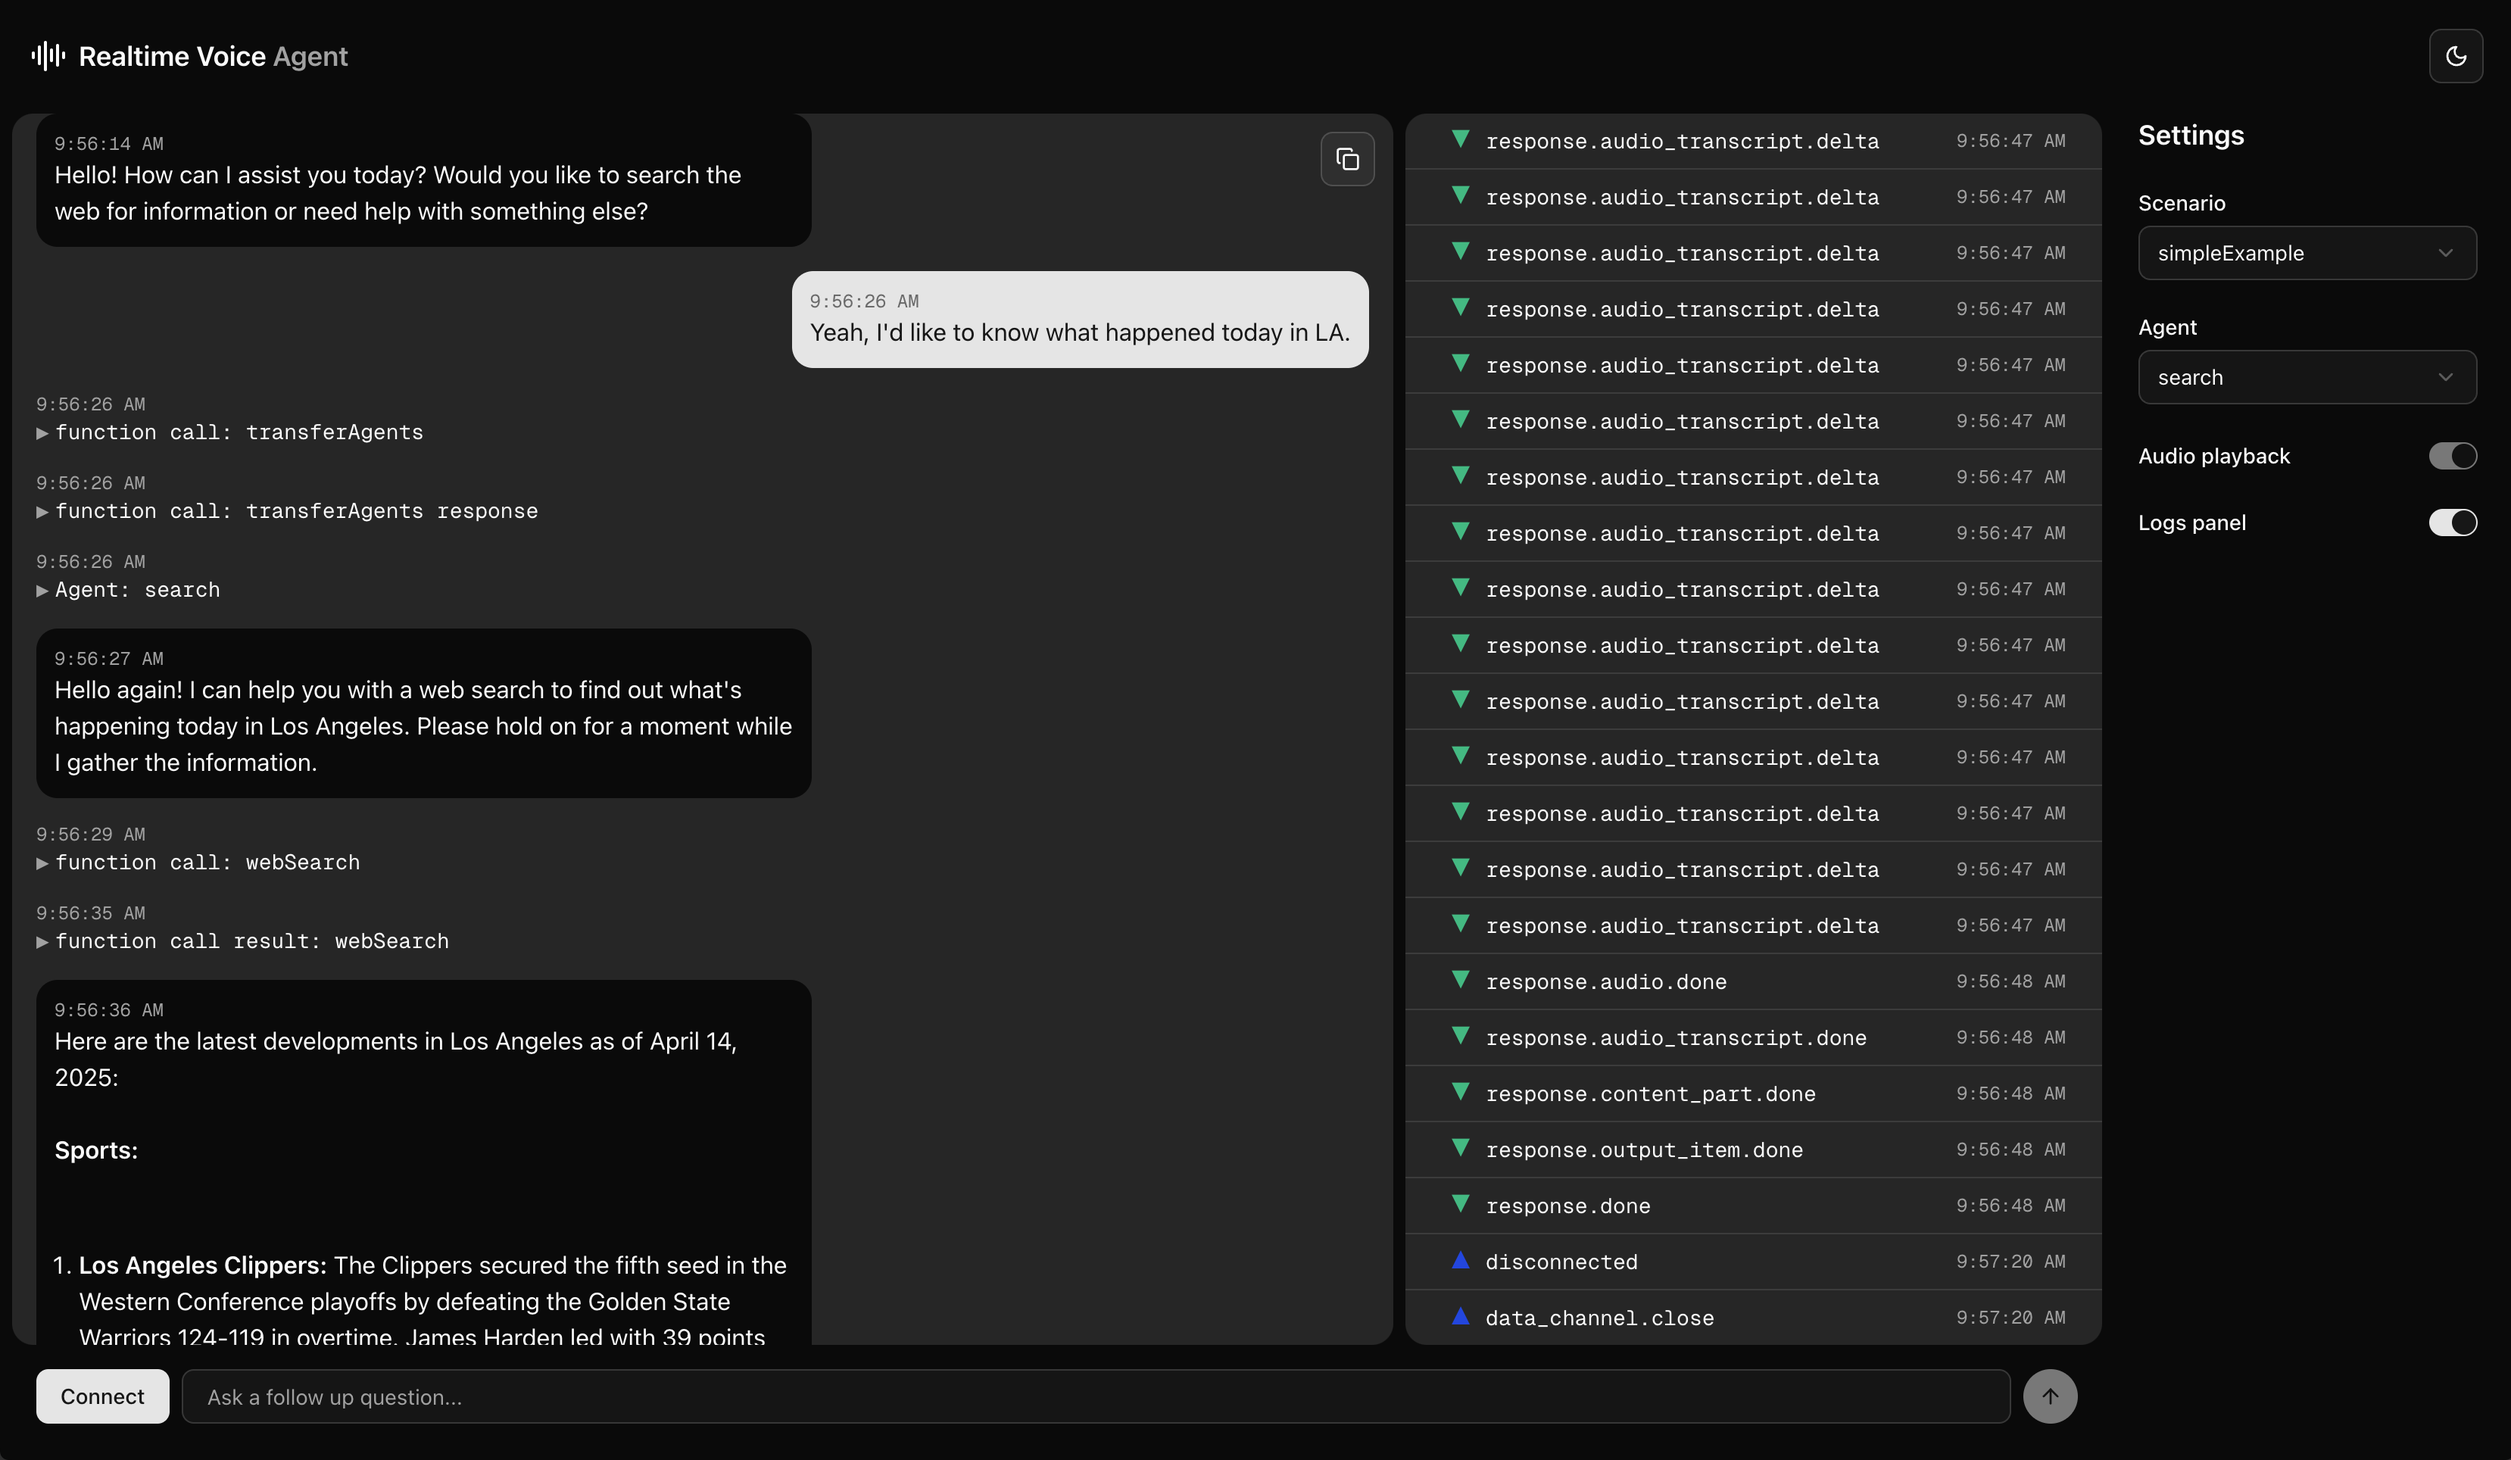
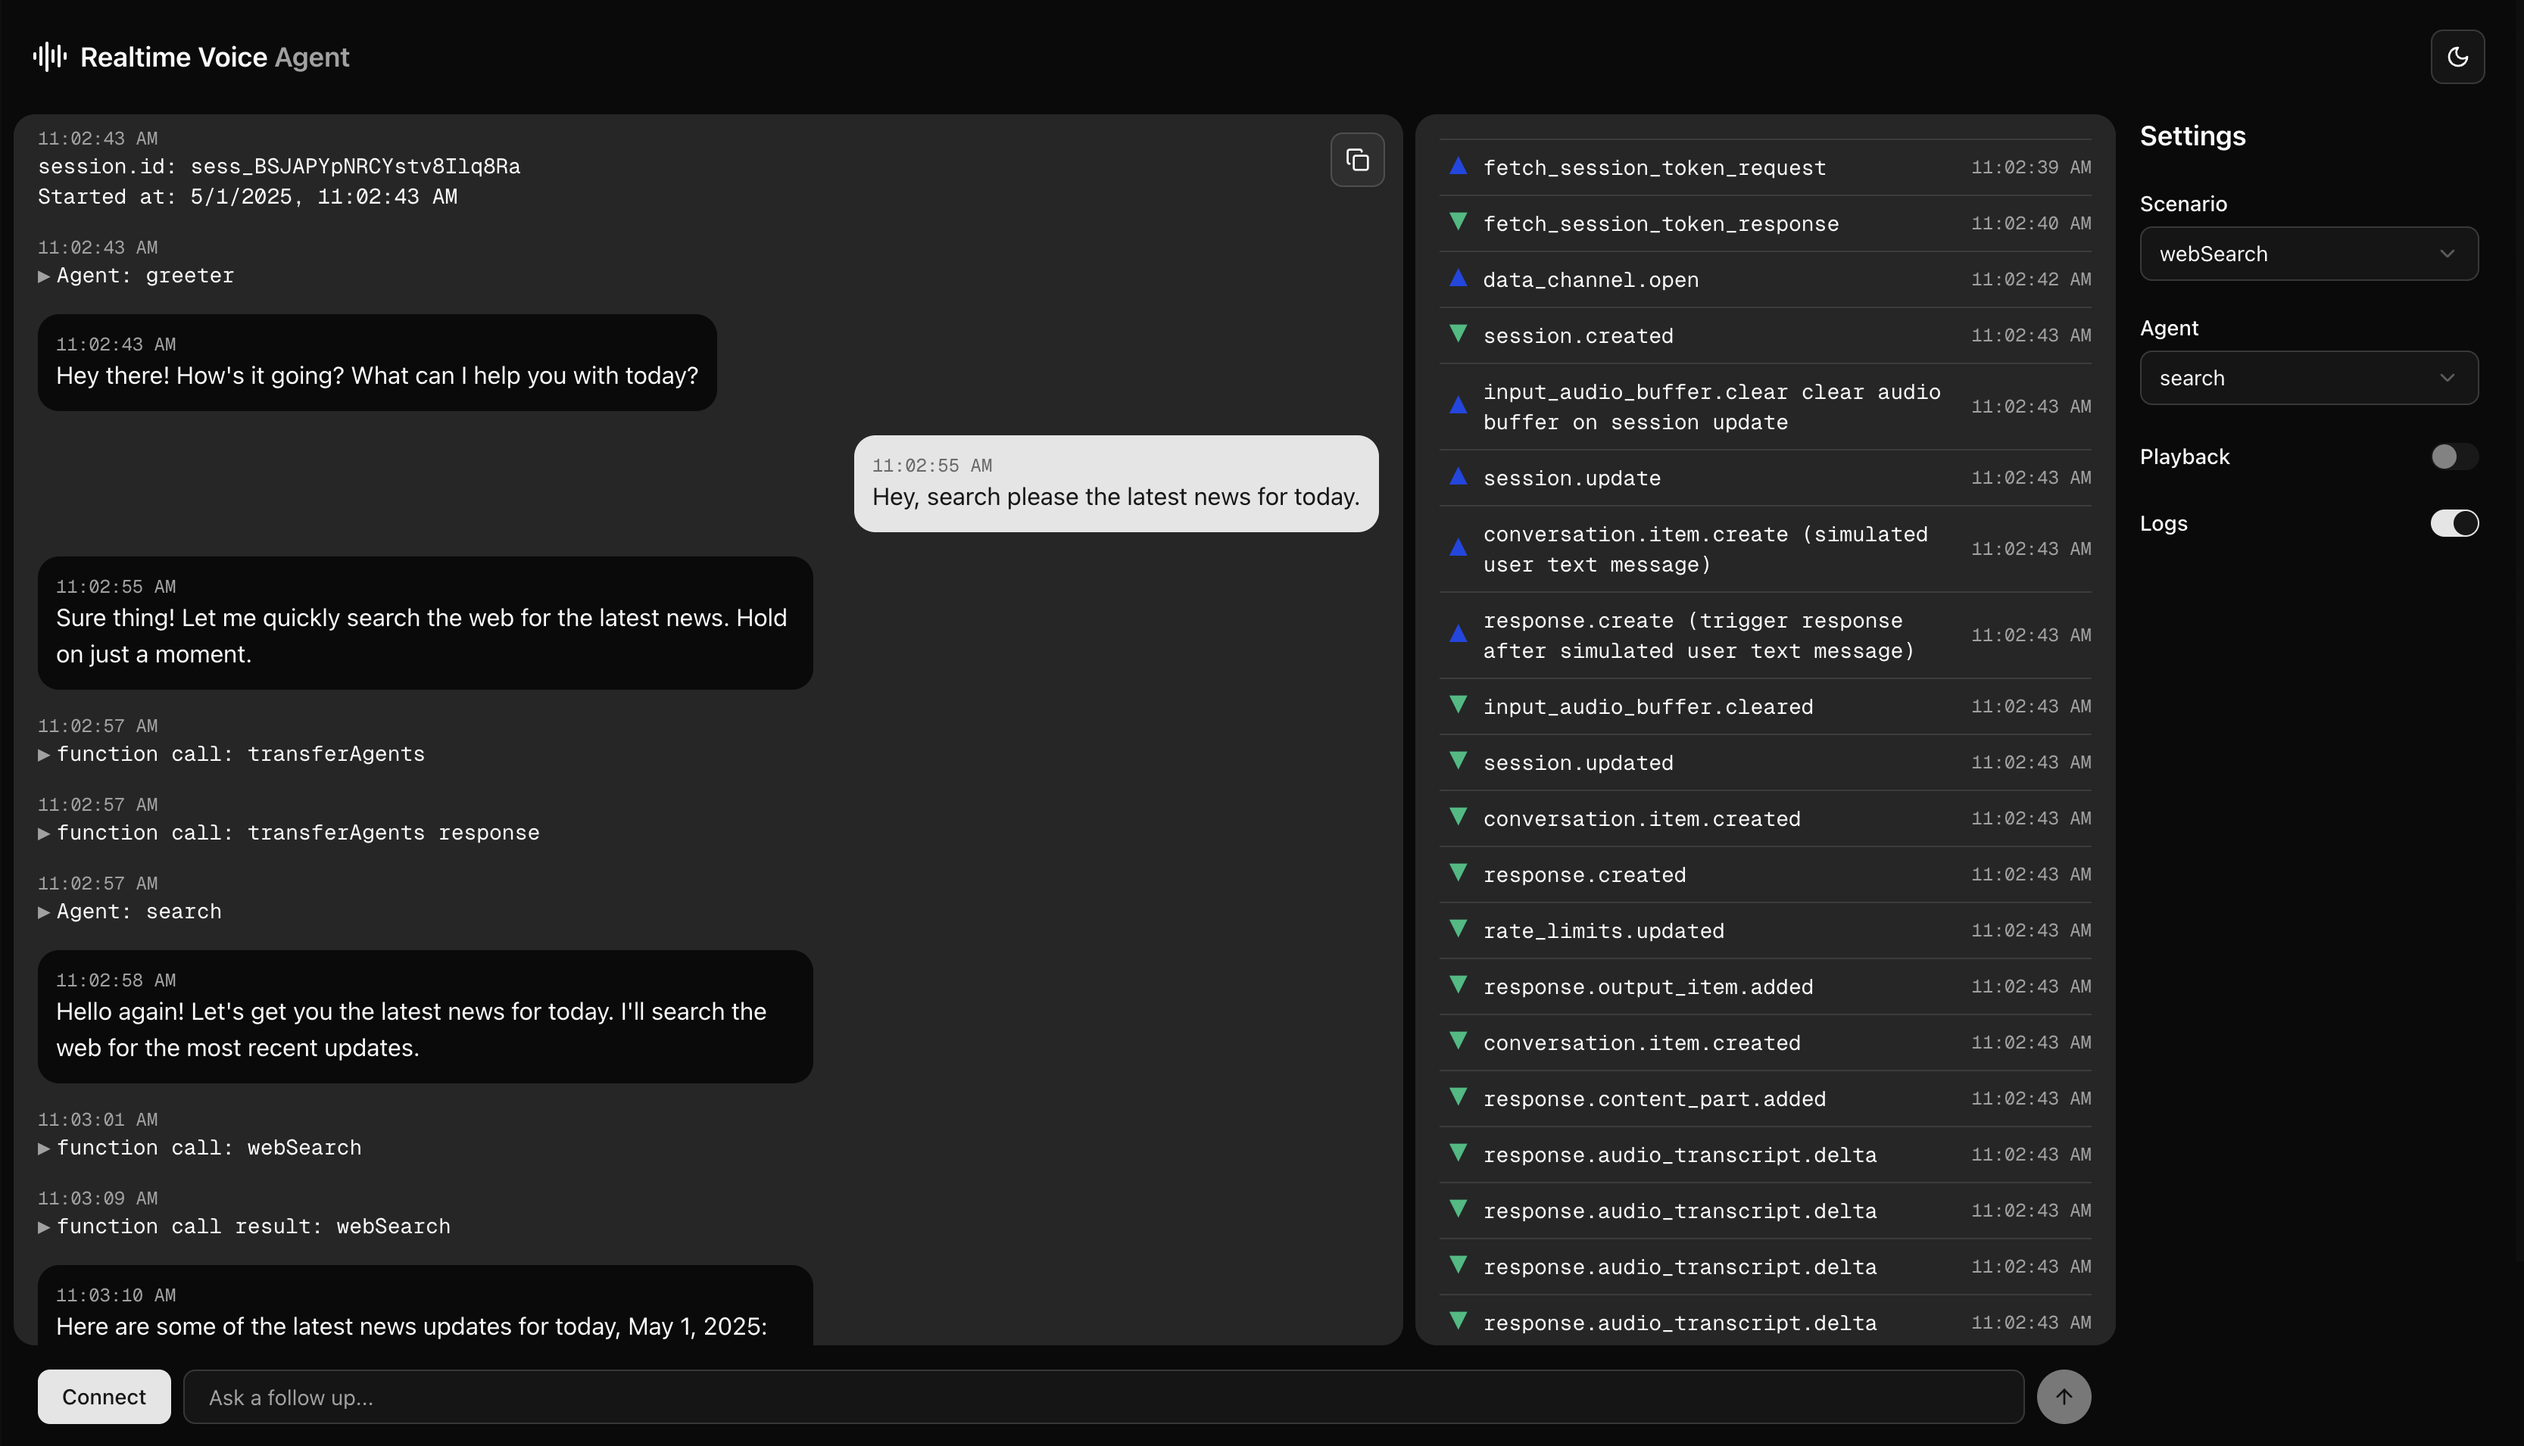
update reame

diff --git a/components/right-sidebar.tsx b/components/right-sidebar.tsx
@@ -68,7 +68,7 @@ const RightSidebar: React.FC<RightSidebarProps> = ({
           htmlFor="audio-playback-sidebar"
           className="flex items-center cursor-pointer text-sm pr-2"
         >
-          Audio playback
+          Playback
         </Label>
         <Switch
           id="audio-playback-sidebar"
@@ -84,7 +84,7 @@ const RightSidebar: React.FC<RightSidebarProps> = ({
           htmlFor="logs-sidebar"
           className="flex items-center cursor-pointer text-sm pr-2"
         >
-          Logs panel
+          Logs
         </Label>
         <Switch
           id="logs-sidebar"

diff --git a/components/agent-configs/index.ts b/components/agent-configs/index.ts
@@ -1,11 +1,11 @@
 import { AllAgentConfigsType } from "@/lib/types";
 
-import simpleExample from "@/components/agent-configs/web-search/index";
+import webSearch from "@/components/agent-configs/web-search/index";
 import customerService from "@/components/agent-configs/customer-service/index";
 
 export const allAgentSets: AllAgentConfigsType = {
-  simpleExample,
+  webSearch,
   customerService,
 };
 
-export const defaultAgentSetKey = "simpleExample";
+export const defaultAgentSetKey = "webSearch";

diff --git a/app/api/og/route.tsx b/app/api/og/route.tsx
@@ -37,7 +37,7 @@ export async function GET() {
               fontSize: 20,
             }}
           >
-            github.com/muradpm
+            github.com/murabcd
           </span>
         </div>
         <div

diff --git a/components/agent-configs/web-search/index.ts b/components/agent-configs/web-search/index.ts
@@ -1,4 +1,4 @@
-import greeter from "./simple-example";
+import greeter from "./greeter";
 import search from "./search";
 import { injectTransferTools } from "@/lib/utils";
 

diff --git a/README.md b/README.md
@@ -7,11 +7,9 @@
   An Open-source Realtime AI Voice Agent Built With Next.js, and OpenAI. 
 </p>
 
-This demonstrates:
-
-- Sequential agent handoffs according to a defined agent graph (taking inspiration from [OpenAI Swarm](https://github.com/openai/swarm))
+- Sequential agent handoffs according to a defined agent graph (inspiration from [OpenAI Swarm](https://github.com/openai/swarm))
 - Background escalation for high-stakes decisions
-- Prompting models to follow a state machine, for example to accurately collect things like names and phone numbers with confirmation character by character to authenticate a user.
+- Prompting models to follow a state machine, for example to accurately collect things like names and phone numbers with confirmation character by character to authenticate a user
 
 <p align="center">
   <a href="#features"><strong>Features</strong></a> ·
@@ -25,7 +23,7 @@ This demonstrates:
 
 - [Next.js](https://nextjs.org) App Router
   - Advanced routing for seamless navigation and performance
-  - React Server Components (RSCs) and Server Actions for server-side rendering and increased performance
+  - React Server Components (RSCs) for server-side rendering and increased performance
 - [OpenAI](https://openai.com/) Integration
   - Leverages OpenAI's powerful models for chat generation.
   - Direct API calls for text generation and other AI features.
@@ -33,13 +31,20 @@ This demonstrates:
 - [Jina Reader](https://jina.ai/) Integration
   - Advanced web scraping capabilities for extracting structured data from websites
   - Enhances the AI's ability to process and understand web content
-- [shadcn/ui](https://ui.shadcn.com)
+- [Shadcn/ui](https://ui.shadcn.com)
   - Styling with [Tailwind CSS](https://tailwindcss.com)
   - Component primitives from [Radix UI](https://radix-ui.com) for accessibility and flexibility
 
 ## Model Provider
 
 This app utilizes the [OpenAI API](https://openai.com/) for its AI capabilities. It is configured to use OpenAI models for generating responses.
+
+- Realtime Model (`gpt-4o-mini-realtime-preview`): Higher quality conversational model with higher latency
+- Realtime Mini Model (`gpt-4o-realtime-preview`): Optimized for low-latency conversational responses
+- Chat Model (`gpt-4.1`): General purpose GPT-4.1 model
+- Chat Mini Model (`gpt-4.1-mini`): Smaller variant of GPT-4.1
+- Transcribe Model (`gpt-4o-transcribe`): Optimized for speech-to-text transcription
+- Transcribe Mini Model (`gpt-4o-mini-transcribe`): Optimized for low-latency speech-to-text transcription
 
 ## Deploy Your Own
 
